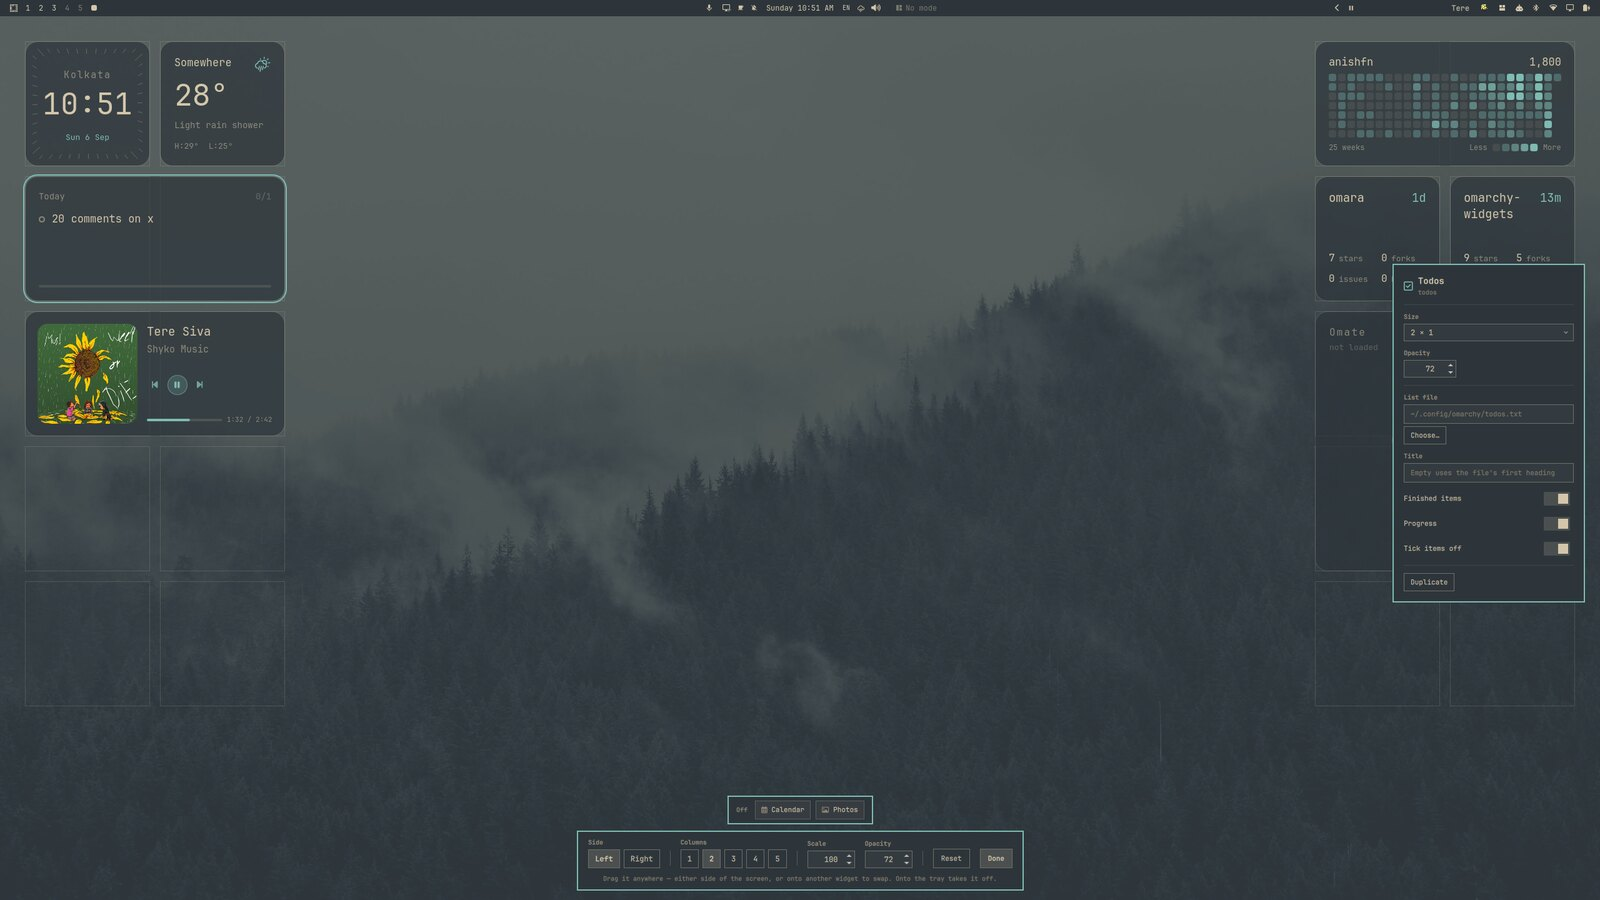
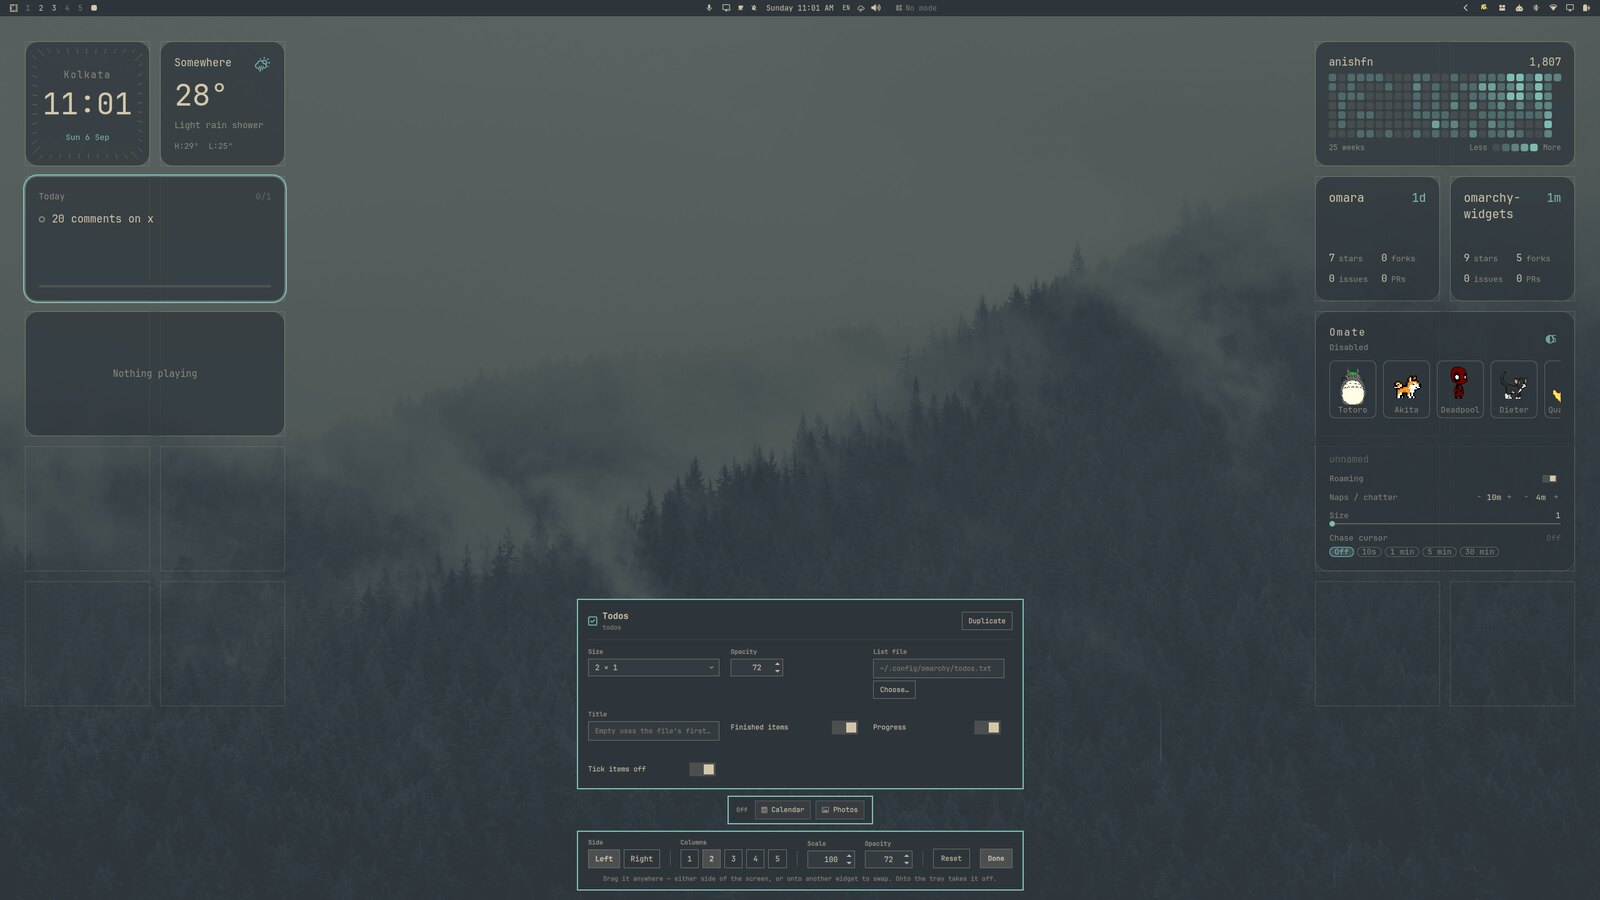
Re-shoot the editor screenshot for the stacked inspector
The image and its caption still showed the inspector down the right-hand
edge, which is the layout the previous commit replaced. Retaken against
the chrome as it is now: one bottom-centred column, the Todos card
selected so the panel has something in it, and its settings flowing four
to a line rather than running down the side of the screen.

The Omate card draws its real content in this one, where the last
editor shot had it reading "not loaded" -- that is the shell passthrough
fix, visible.

diff --git a/README.md b/README.md
@@ -306,12 +306,13 @@ grid appears under your widgets, and you can drag them around. Escape or
 **Done** closes it.
 
 <p align="center">
-  <img src="assets/editor.jpg" alt="The layout editor: the grid under the widgets, the tray of switched-off widgets along the bottom, the bar of layout controls beneath it, and the inspector docked to the right showing the selected widget's settings" width="880">
+  <img src="assets/editor.jpg" alt="The layout editor: the grid under the widgets, and the chrome in one bottom-centred column — the inspector for the selected widget with its settings flowing four to a line, the tray of switched-off widgets, and the bar of layout controls" width="880">
 </p>
 
 <p align="center">
-  <sub>The grid under the cards, the tray of switched-off widgets, the layout
-  bar, and the inspector — docked to the side its widget is not on.</sub>
+  <sub>The grid under the cards, and the editor's chrome as one column: the
+  inspector for whatever is selected, the tray of widgets that are off, and
+  the layout bar.</sub>
 </p>
 
 ### The bar, the tray and the inspector
